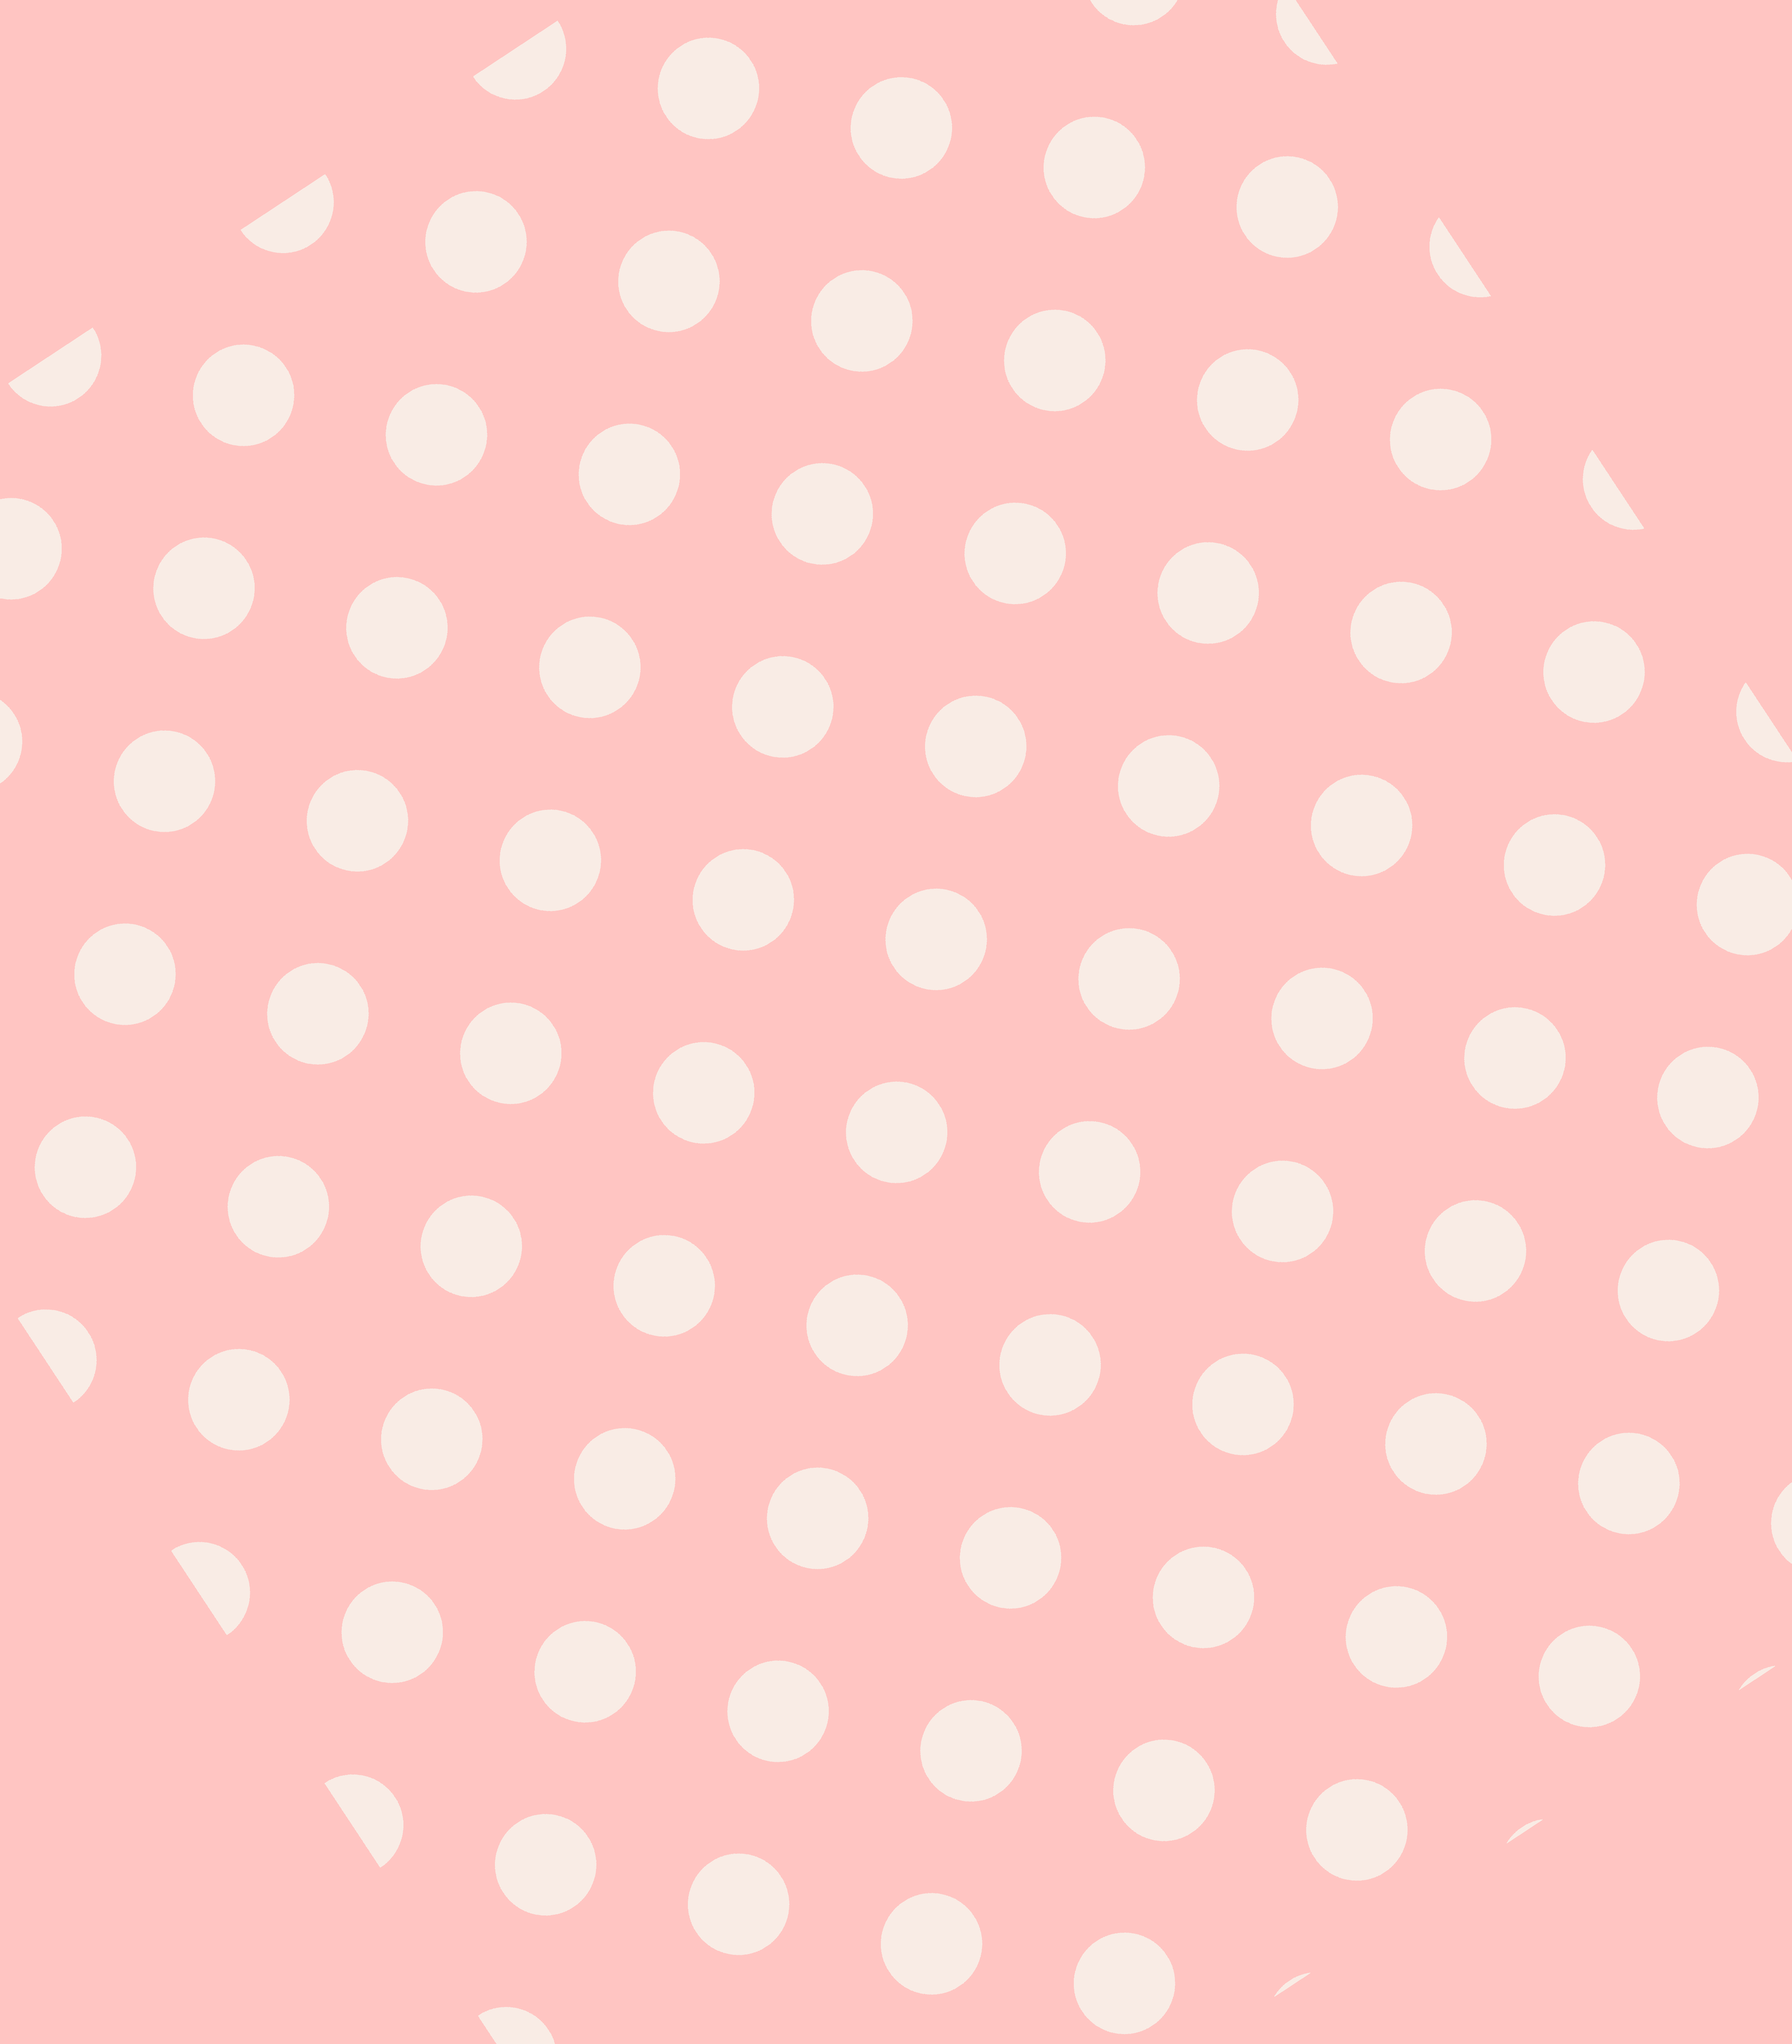
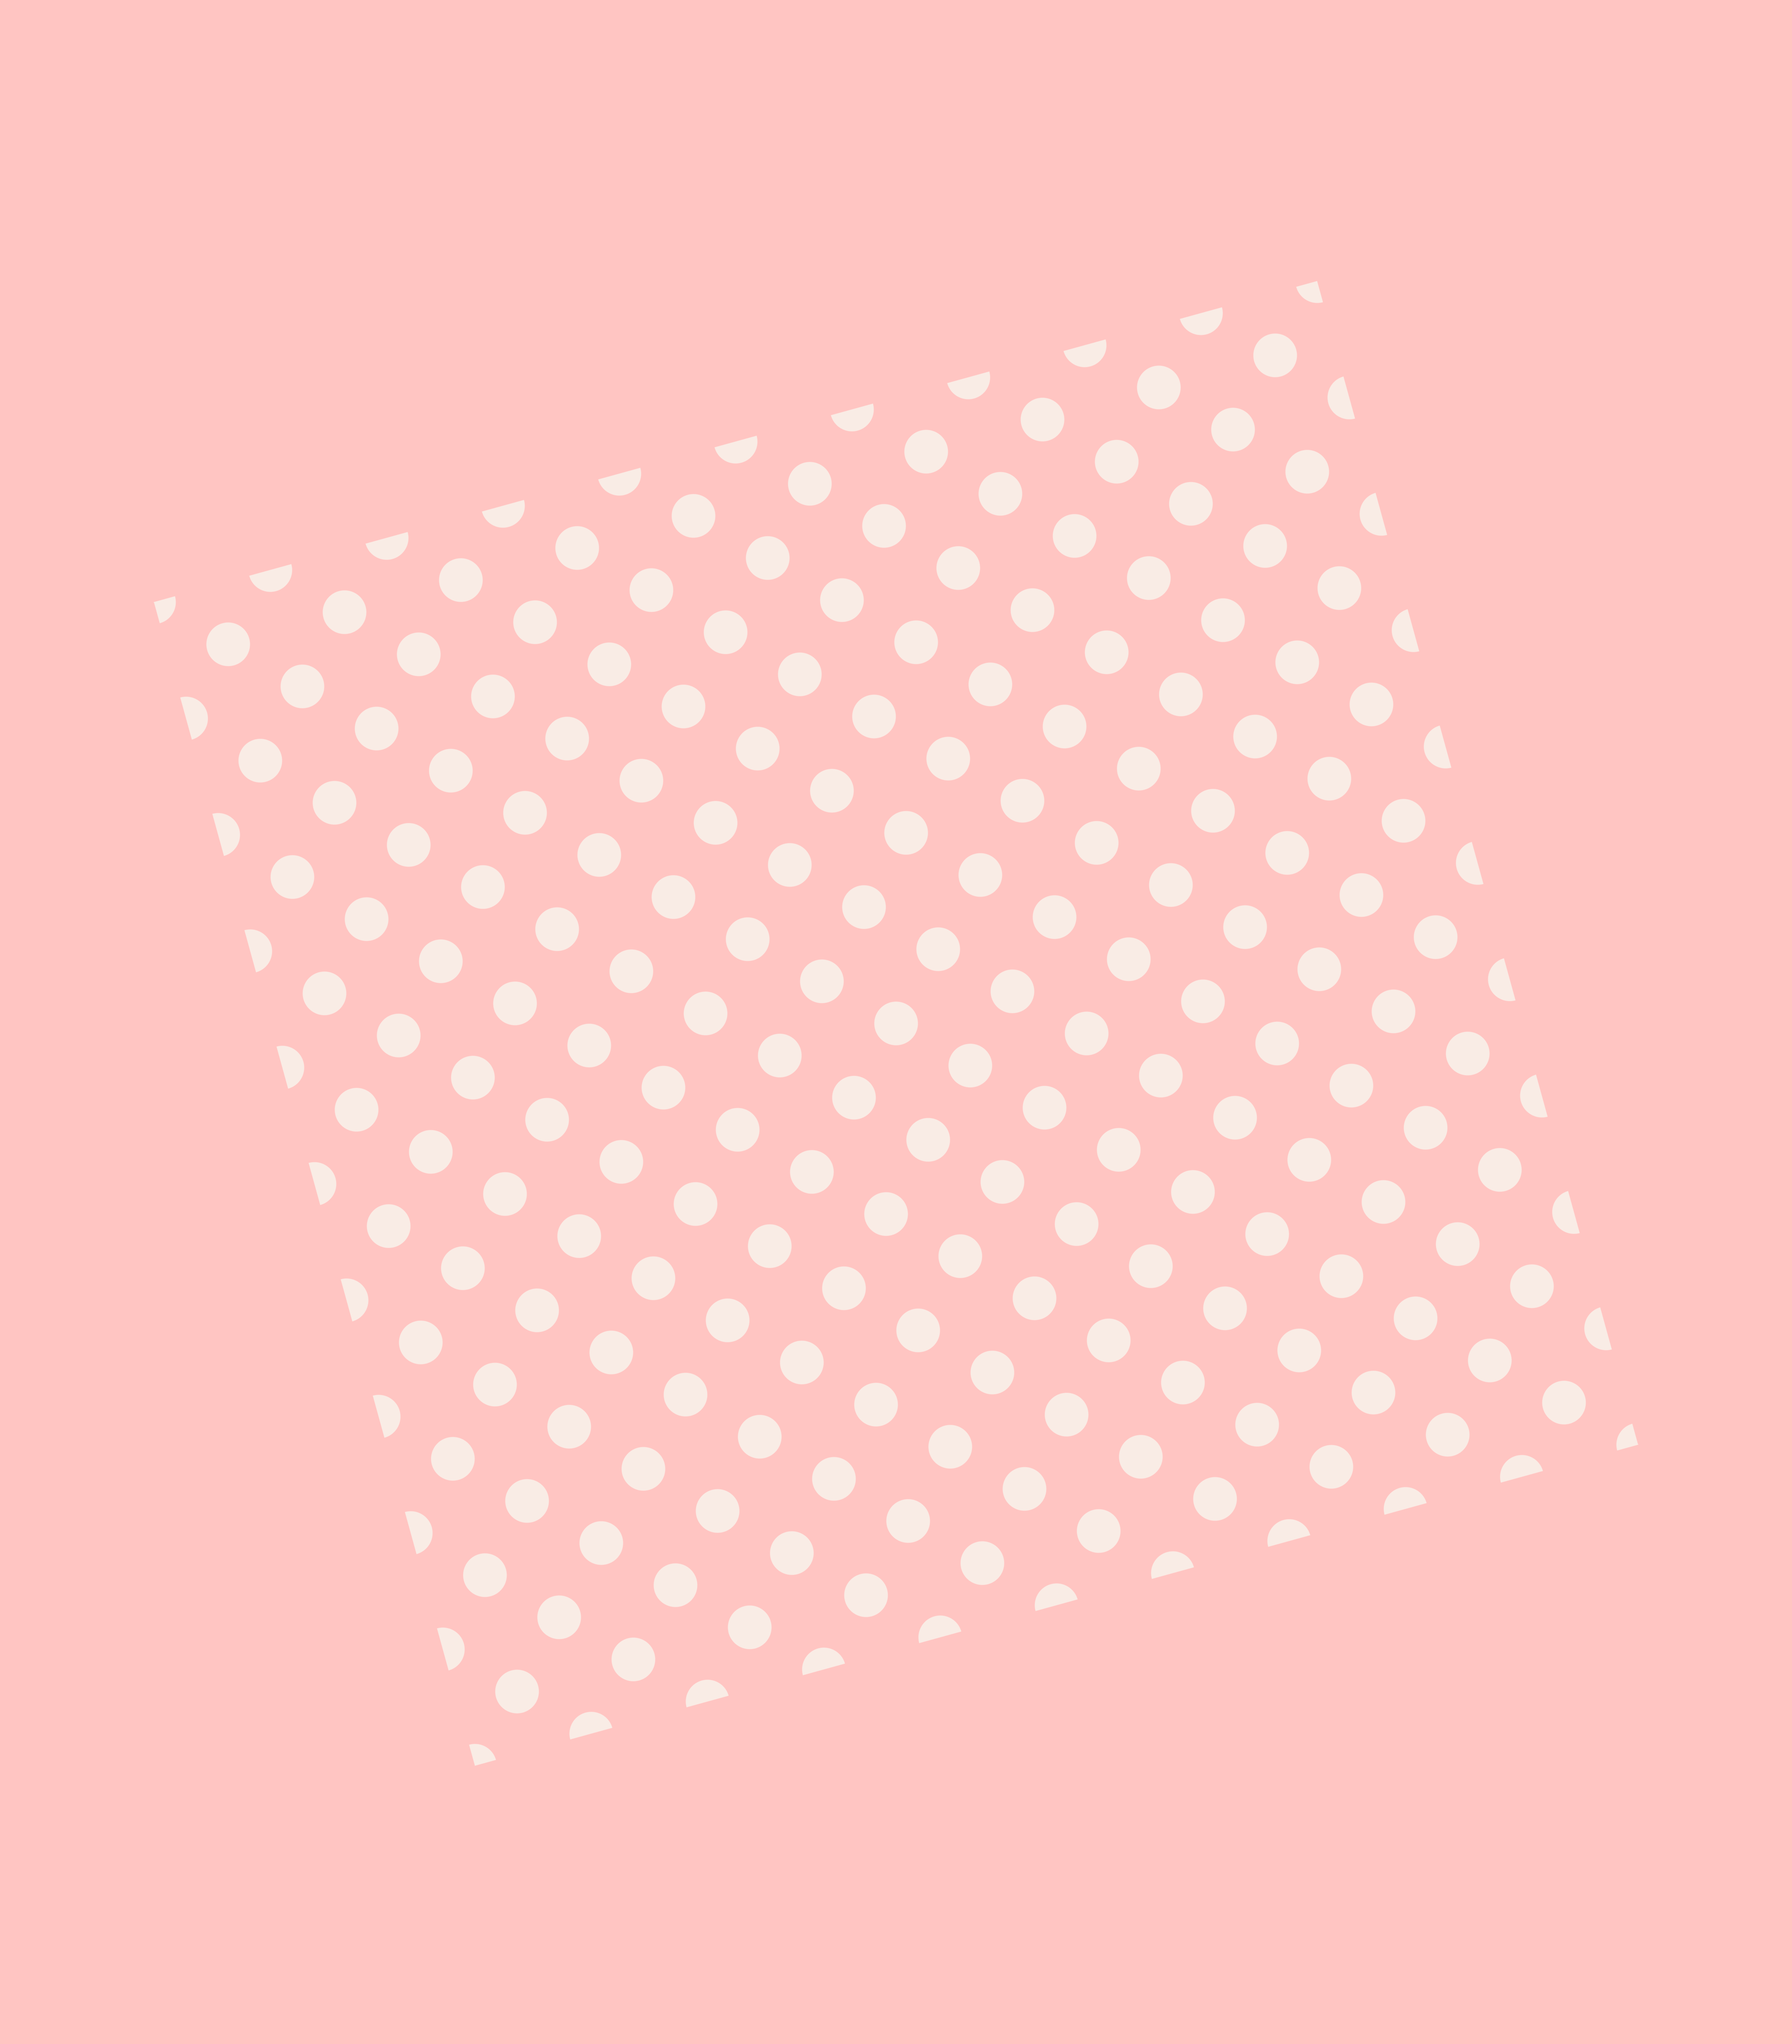
patrón cambio
cambio patrón cortinilla

diff --git a/Assets/Scripts/Transitions/MaintainPos.cs b/Assets/Scripts/Transitions/MaintainPos.cs
@@ -9,7 +9,7 @@ public class MaintainPos : MonoBehaviour
     public GameObject parent;
     void Start()
     {
-        posOriginal = Vector3.zero;
+        posOriginal = new Vector3(-1500,-500,0);
 
         
     }
@@ -28,7 +28,7 @@ public class MaintainPos : MonoBehaviour
         else
         {
             newPos = new Vector3(offSet.x, offSet.y, 0f);
-            transform.position = parent.transform.position-newPos;
+            transform.position = parent.transform.position - newPos;
         }
 
 
